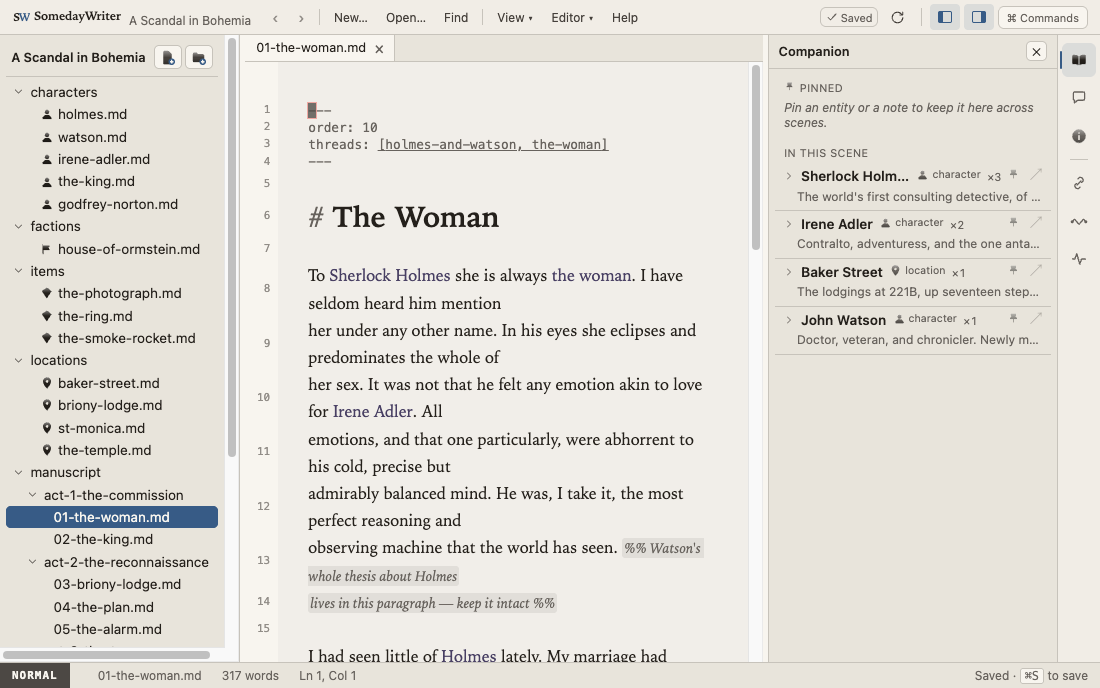
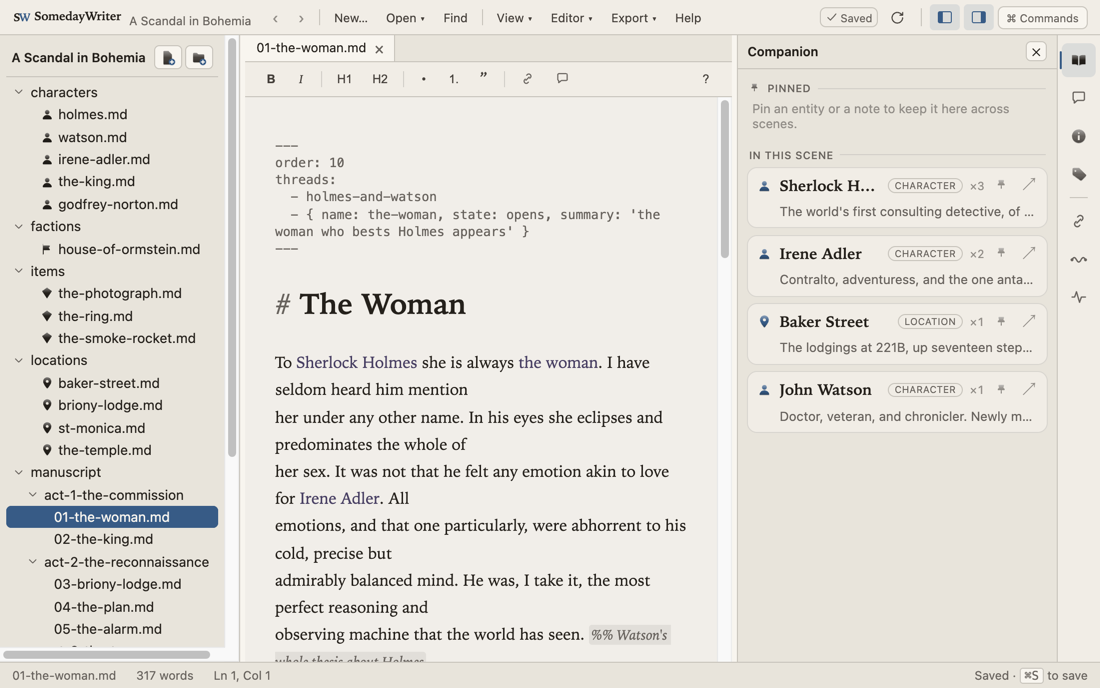
docs: refresh Companion + Threads media, add Frontmatter editor GIF
The README images predated today's UI work. Refreshed the two that were stale
and added the one that was missing; the other nine still match the current UI.

- companion.png — re-shot for the redesigned pane (entity cards with type pills,
  mention counts, pin/open actions).
- demo-threads.gif — regenerated for the v2 dashboard: follow-a-thread Order
  chips, the By-length word-weighted axis, and the List stats/status view.
- demo-frontmatter.gif — new: the structured Frontmatter editor, showing beats
  reorder/collapse with the YAML round-tripping live in the editor. Wired into
  the "See it in action" section.

Captured from the built app on the scandal-in-bohemia example (Warm-paper theme),
matching the existing set's dimensions (1100x688 PNG / 860x538 GIF).

diff --git a/README.md b/README.md
@@ -97,6 +97,15 @@ resolving.
 <img src="docs/images/demo-threads.gif" width="820" alt="Threads timeline reordering as you follow different threads" />
 </div>
 
+**Edit frontmatter as a form.** Open the **Frontmatter** pane on any file and its
+`---` block becomes a schema-aware form — dropdowns, and a threads-beat repeater
+you can reorder and collapse. It writes straight back to the file with a faithful
+YAML round-trip, so your comments and own keys stay untouched.
+
+<div align="center">
+<img src="docs/images/demo-frontmatter.gif" width="820" alt="Editing a file's frontmatter as a structured form — the YAML updates live as beats are reordered and collapsed" />
+</div>
+
 **Catch mistakes as you type.** Opt-in spelling/grammar diagnostics squiggle
 under the problem — quietly, and only when you turn them on.
 